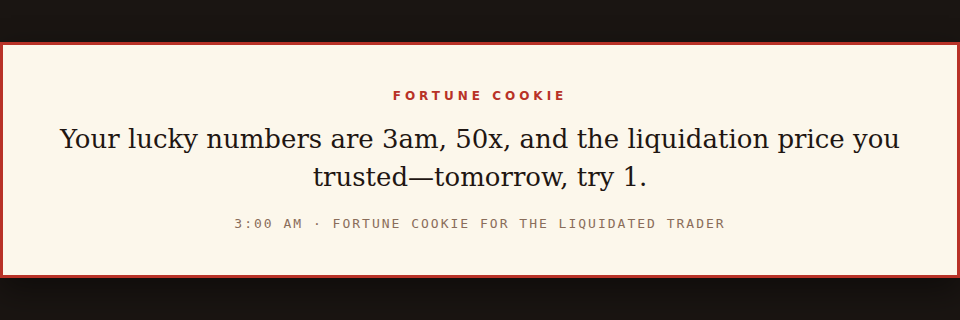
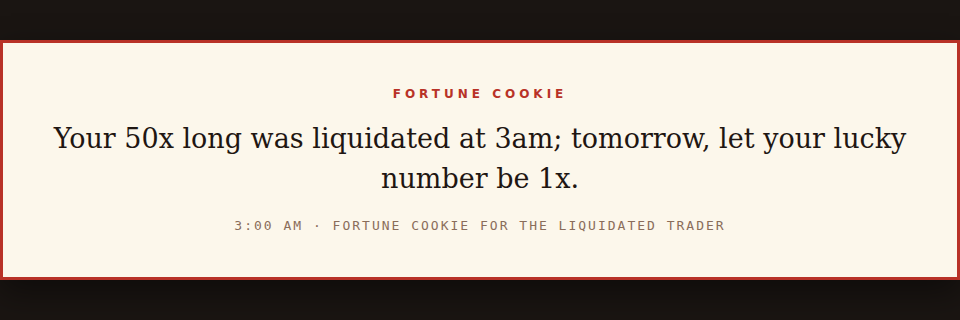
Tighten fortune to explicit 3am liquidation and 1x lucky number

diff --git a/main.ts b/main.ts
@@ -1,7 +1,7 @@
 import { mkdirSync, writeFileSync } from "node:fs";
 
 const FORTUNE =
-  "Your lucky numbers are 3am, 50x, and the liquidation price you trusted—tomorrow, try 1.";
+  "Your 50x long was liquidated at 3am; tomorrow, let your lucky number be 1x.";
 
 mkdirSync("/output", { recursive: true });
 writeFileSync("/output/entry.txt", `${FORTUNE}\n`, "utf8");
